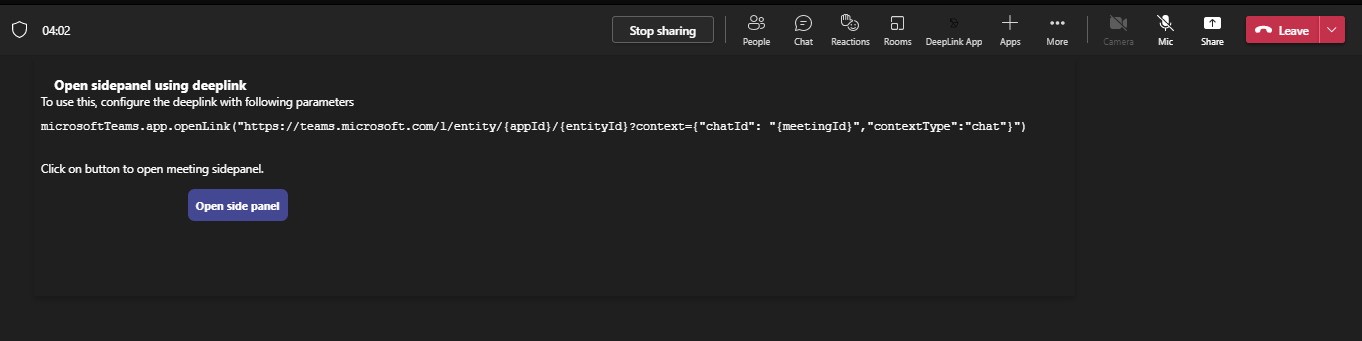
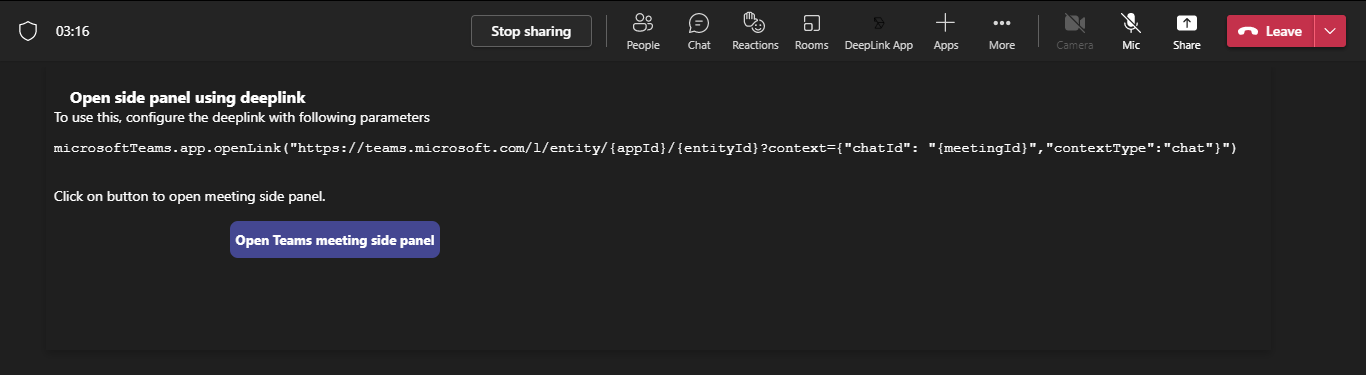
PR comment fix 1

diff --git a/samples/tab-deeplink/nodejs/pages/ChannelDeepLink.html b/samples/tab-deeplink/nodejs/pages/ChannelDeepLink.html
@@ -11,7 +11,7 @@
 
     <script>
         var deepLinkString = "";
-        function callSidepanelDeeplink() {
+        function callSidePanelDeeplink() {
             microsoftTeams.app.initialize().then(() => {
                 microsoftTeams.app.openLink(deepLinkString);
             })
@@ -58,7 +58,7 @@
 
     <div id="side-panel-content" class="container" style="color:white;display:none;margin-top:3rem;">
         <div>
-            This is a side panel tab. 
+            This is a Side Panel tab. 
         </div>
         <button 
             data-id="default"
@@ -76,7 +76,7 @@
                 <div class="card" style="width:100%">
                     <div class="card-body">
                         <div class="card-header">
-                            <b>Open sidepanel using deeplink</b>
+                            <b>Open side panel using deeplink</b>
                         </div>
                         <div class="configure-header">
                             To use this, configure the deeplink with following parameters
@@ -85,15 +85,15 @@
 microsoftTeams.app.openLink("https://teams.microsoft.com/l/entity/{appId}/{entityId}?context={"chatId": "{meetingId}","contextType":"chat"}")
                             </pre>
                         </div>
-                        <div>Click on button to open meeting sidepanel.</div>
+                        <div>Click on button to open meeting side panel.</div>
                     </div>
                     <button 
                         data-id="default"
                         class="callDeeplinkButton"
-                        onclick="callSidepanelDeeplink()"
-                        style="width:120px"
+                        onclick="callSidePanelDeeplink()"
+                        style="width:210px"
                     >
-                        Open side panel
+                        Open Teams meeting side panel
                     </button>
                 </div>
             </div>

diff --git a/samples/tab-deeplink/nodejs/pages/ExtendedDeepLink.html b/samples/tab-deeplink/nodejs/pages/ExtendedDeepLink.html
@@ -82,7 +82,7 @@
                 <div class="card" style="min-height:6rem;width:45rem;">
                     <div class="card-body">
                         <div class="card-header">
-                            <b>Add this app in meeting and stage this tab to experience deeplink to sidepanel.</b>
+                            <b>Add this app in meeting side panel and stage this tab to experience deeplink to meeting side panel.</b>
                         </div>
                     </div>
                 </div>
